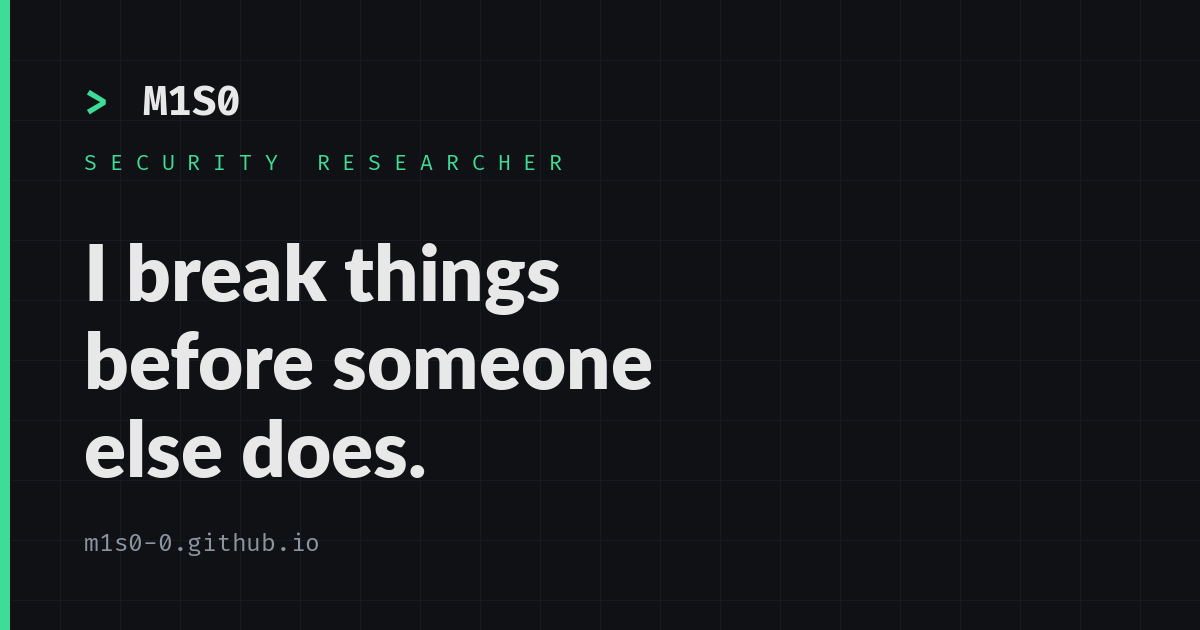
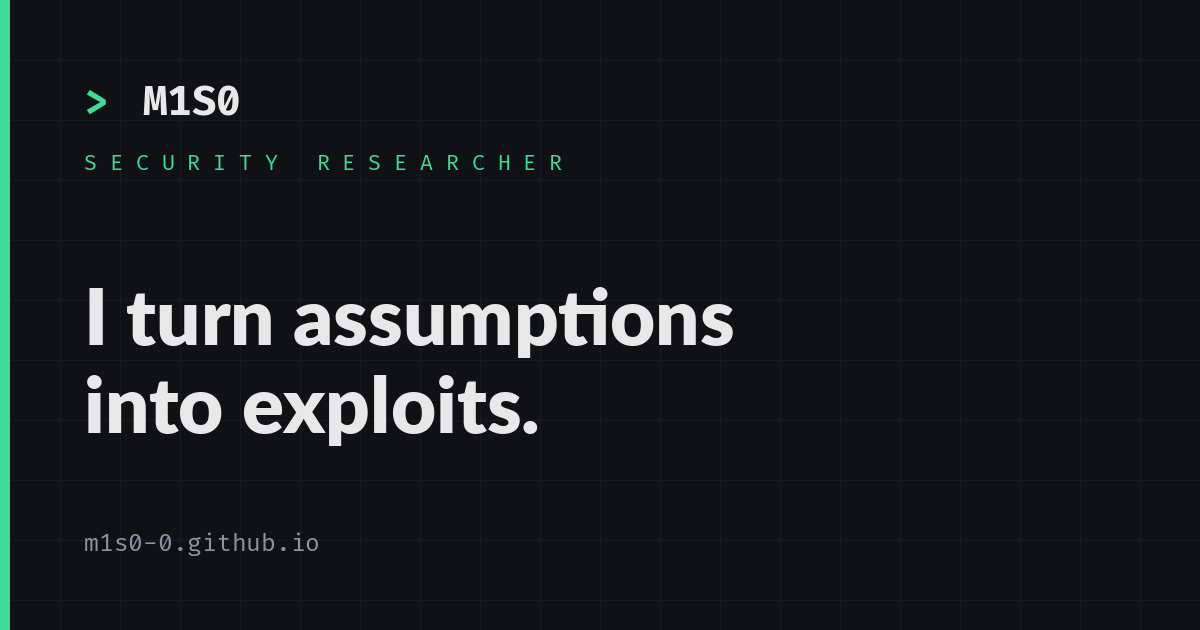
Update the social card headline to "I turn assumptions into exploits."
Replaces the old "I break things before someone else does." tagline on
the homepage Open Graph card.

Changed region(s): [[0.0617, 0.3921, 0.6167, 0.754]]

diff --git a/scripts/make-images.py b/scripts/make-images.py
@@ -67,9 +67,8 @@ def make_og():
 
     # headline
     f_h1 = font(SANS_B, 78)
-    d.text((pad, 224), "I break things", font=f_h1, fill=FG)
-    d.text((pad, 312), "before someone", font=f_h1, fill=FG)
-    d.text((pad, 400), "else does.", font=f_h1, fill=FG)
+    d.text((pad, 268), "I turn assumptions", font=f_h1, fill=FG)
+    d.text((pad, 356), "into exploits.", font=f_h1, fill=FG)
 
     # footer line
     f_foot = font(MONO_R, 24)
